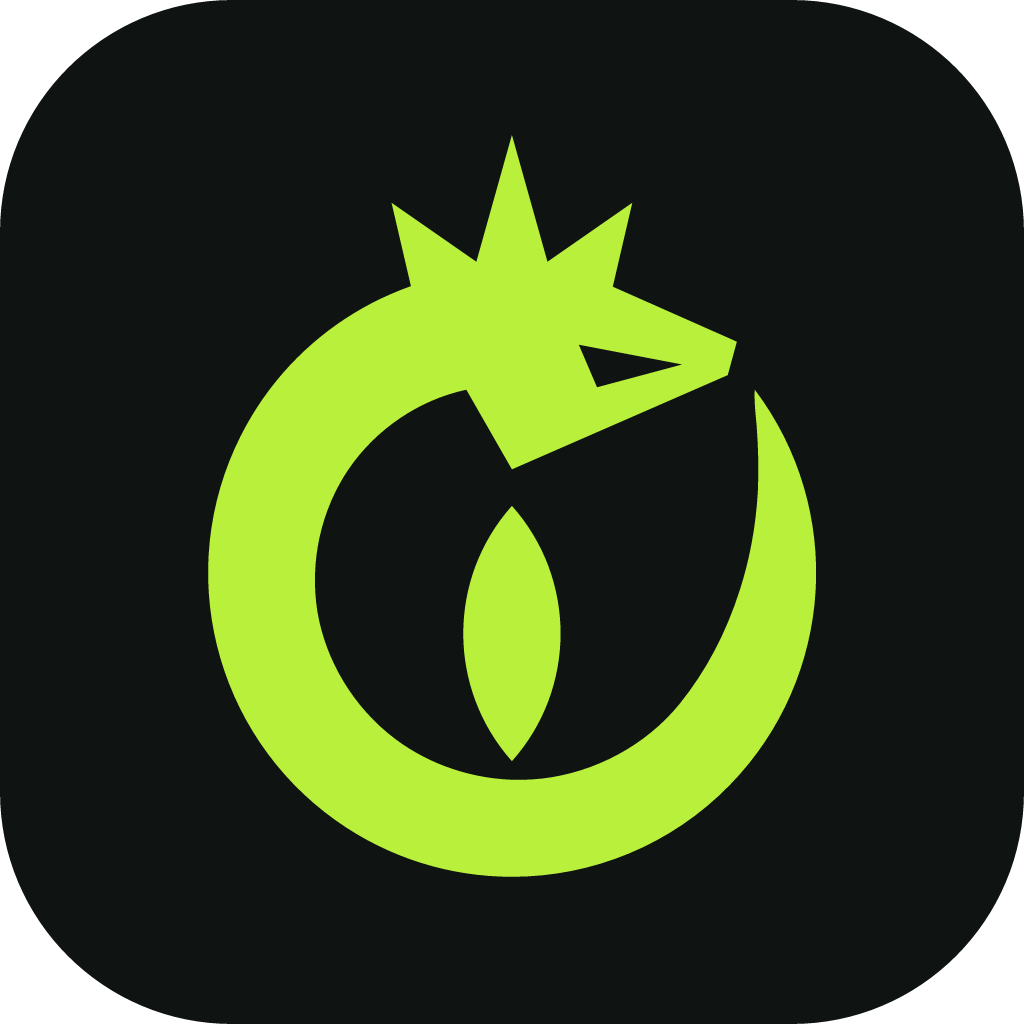
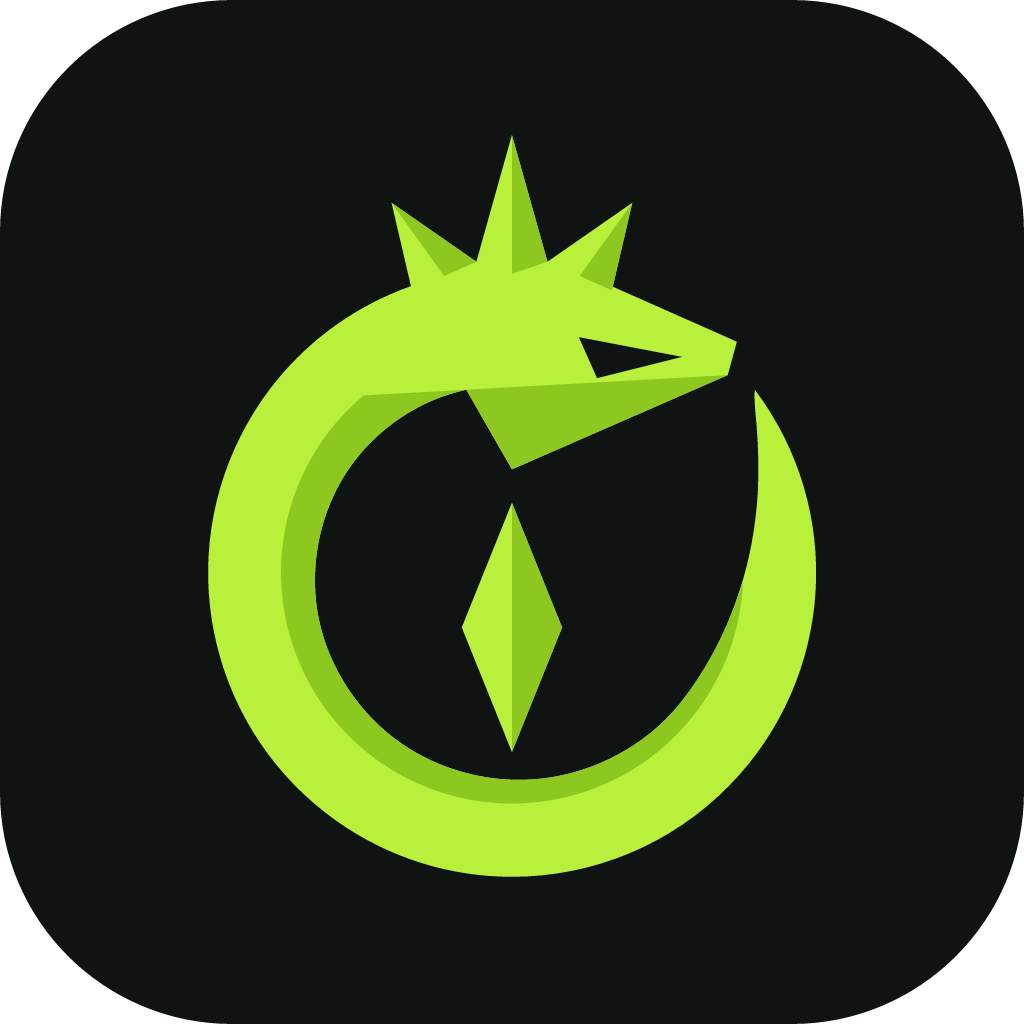
feat(brand): facet the basilisk mark in two flat tones
Cut the colour mark like a stone: a deeper tone for the serpent's
underside (belly into lower jaw) and for the right-hand faces of the
crown and pupil, and a rhombus pupil split on the centre axis. The
i-dots follow the new pupil. Mono keeps the flat silhouette; the
16/32 px icon stays one colour. Re-render PNGs and previews.

diff --git a/assets/brand/README.md b/assets/brand/README.md
@@ -5,11 +5,11 @@
 ## The idea
 
 The basilisk is the crowned serpent whose gaze kills. The mark is that
-serpent coiled into a ring, and the ring is the iris of an eye: the slit in
-the middle is the pupil. A tool that stares into binaries gets an emblem
-that is itself a stare. Read small it is an eye with a crown; read large it
-is a serpent chasing its tail. The ring and the stroke inside it are also a
-0 and a 1.
+serpent coiled into a ring, and the ring is the iris of an eye: the narrow
+shard in the middle is the pupil. A tool that stares into binaries gets an
+emblem that is itself a stare. Read small it is an eye with a crown; read
+large it is a serpent chasing its tail. The ring and the stroke inside it
+are also a 0 and a 1.
 
 The body is a perfect circle on the outside and a near-even ring for three
 quarters of the way round, then thins into a blade for the tail. The tip of
@@ -17,6 +17,13 @@ the crown, the point of the jaw and the pupil sit on one vertical axis
 through the centre of the ring, so the mark is symmetrical apart from the
 head and the tail. Head, crown, pupil and tail all end in sharp points;
 everything else is one circle. In the icon the ring is centred on the tile.
+
+The colour version is cut like a stone, which is what the basilisk's gaze
+does to things: a second, deeper flat tone marks the serpent's underside
+(belly running into the lower jaw) and the right-hand face of each crown
+spike and of the pupil, so the pupil reads as a gem split down the centre
+axis. The one-colour version drops the second tone and keeps the same
+silhouette.
 
 It sits in the same family as Ghidra's dragon (a mythical beast as a flat
 emblem, coiled) but shares no shapes, colour or lettering with it: this is
@@ -28,23 +35,25 @@ the middle. It uses no Rust or Ferris artwork.
 | Name     | Hex       | Use                                             |
 |----------|-----------|-------------------------------------------------|
 | Venom    | `#B8F03C` | The mark on dark backgrounds; accents           |
+| Venom deep | `#8CC820` | Underside and facets of the Venom mark        |
 | Moss     | `#4A8500` | The mark on light backgrounds (4.5:1 on white)  |
+| Moss deep | `#376600` | Underside and facets of the Moss mark          |
 | Obsidian | `#0F1412` | Icon tile, dark backgrounds, wordmark on light  |
 | Bone     | `#E9EEE2` | Wordmark and text on dark                       |
 
-Flat colour only. No gradients, glows, outlines or shadows.
+Two flat tones at most. No gradients, glows, outlines or shadows.
 
 ## Files
 
 | File                       | Use it for                                                        |
 |----------------------------|-------------------------------------------------------------------|
-| `basilisk-mark.svg`        | Emblem alone, Venom, transparent. Dark backgrounds (in-app, about box, dark docs). |
-| `basilisk-mark-light.svg`  | Emblem alone, Moss, transparent. Light backgrounds.               |
-| `basilisk-mark-mono.svg`   | Emblem in `currentColor`. One-colour print, UI glyphs, anything that must inherit the text colour. |
+| `basilisk-mark.svg`        | Emblem alone, Venom with facets, transparent. Dark backgrounds (in-app, about box, dark docs). |
+| `basilisk-mark-light.svg`  | Emblem alone, Moss with facets, transparent. Light backgrounds.               |
+| `basilisk-mark-mono.svg`   | Emblem in `currentColor`, no facets. One-colour print, UI glyphs, anything that must inherit the text colour. |
 | `basilisk-logo.svg`        | Emblem + wordmark for light backgrounds.                          |
 | `basilisk-logo-dark.svg`   | Emblem + wordmark for dark backgrounds.                           |
 | `basilisk-icon.svg`        | App icon: emblem on the Obsidian tile. Source for 64 px and up.   |
-| `basilisk-icon-small.svg`  | Simplified icon for 16 and 32 px: heavier ring, no head eye, pupil centred on the pixel grid. |
+| `basilisk-icon-small.svg`  | Simplified icon for 16 and 32 px: heavier ring, one colour, no head eye, pupil on the pixel grid. |
 | `png/basilisk-icon-N.png`  | Icon renders at 16, 32, 64, 128, 256, 512, 1024 px (window icon, favicon, bundles). |
 | `png/preview-*.png`        | Previews only (mark, both logos, overview sheet). Not for shipping. |
 | `concepts/`                | Rejected directions, see below.                                   |
@@ -59,7 +68,7 @@ For a README that follows the viewer's theme:
 ```
 
 The wordmark is drawn as strokes and polygons, so no font is needed. The
-dots on the two i's repeat the slit pupil.
+dots on the two i's repeat the pupil.
 
 ## Clear space and minimum size
 
@@ -68,7 +77,7 @@ dots on the two i's repeat the slit pupil.
 - Mark: 24 px minimum on screen, 8 mm in print. Below 24 px use the icon
   PNGs (16 and 32 px come from the simplified artwork).
 - Logo: 120 px wide minimum on screen, 30 mm in print.
-- Icon: 16 px minimum. At 16 px it reads as a crowned ring with a slit; the
+- Icon: 16 px minimum. At 16 px it reads as a crowned ring with a pupil; the
   serpent's head only resolves from 32 px up.
 - Do not recolour outside the palette, rotate, stretch, outline, or put the
   Venom mark on a light background (use Moss or mono there).
@@ -77,9 +86,11 @@ dots on the two i's repeat the slit pupil.
 
 The SVGs are plain paths in a 256-unit box. The ring is a circle of radius
 100 centred on (128, 148); its outer edge is one arc command and its inner
-edge is nine cubic segments. Head and crown are straight-edged polygons and
-the pupil is two circular arcs centred on x = 128, all safe to nudge by
-hand.
+edge is nine cubic segments. Head, crown and pupil are straight-edged
+polygons; the pupil is a rhombus centred on x = 128. The deeper tone is a
+single path drawn on top: the belly band is everything inside radius 76,
+and each facet is a triangle that reuses the points of the shape under it,
+so if you move a crown or pupil point, move its facet point too.
 
 Regenerate the PNGs with [resvg](https://github.com/linebender/resvg):
 
